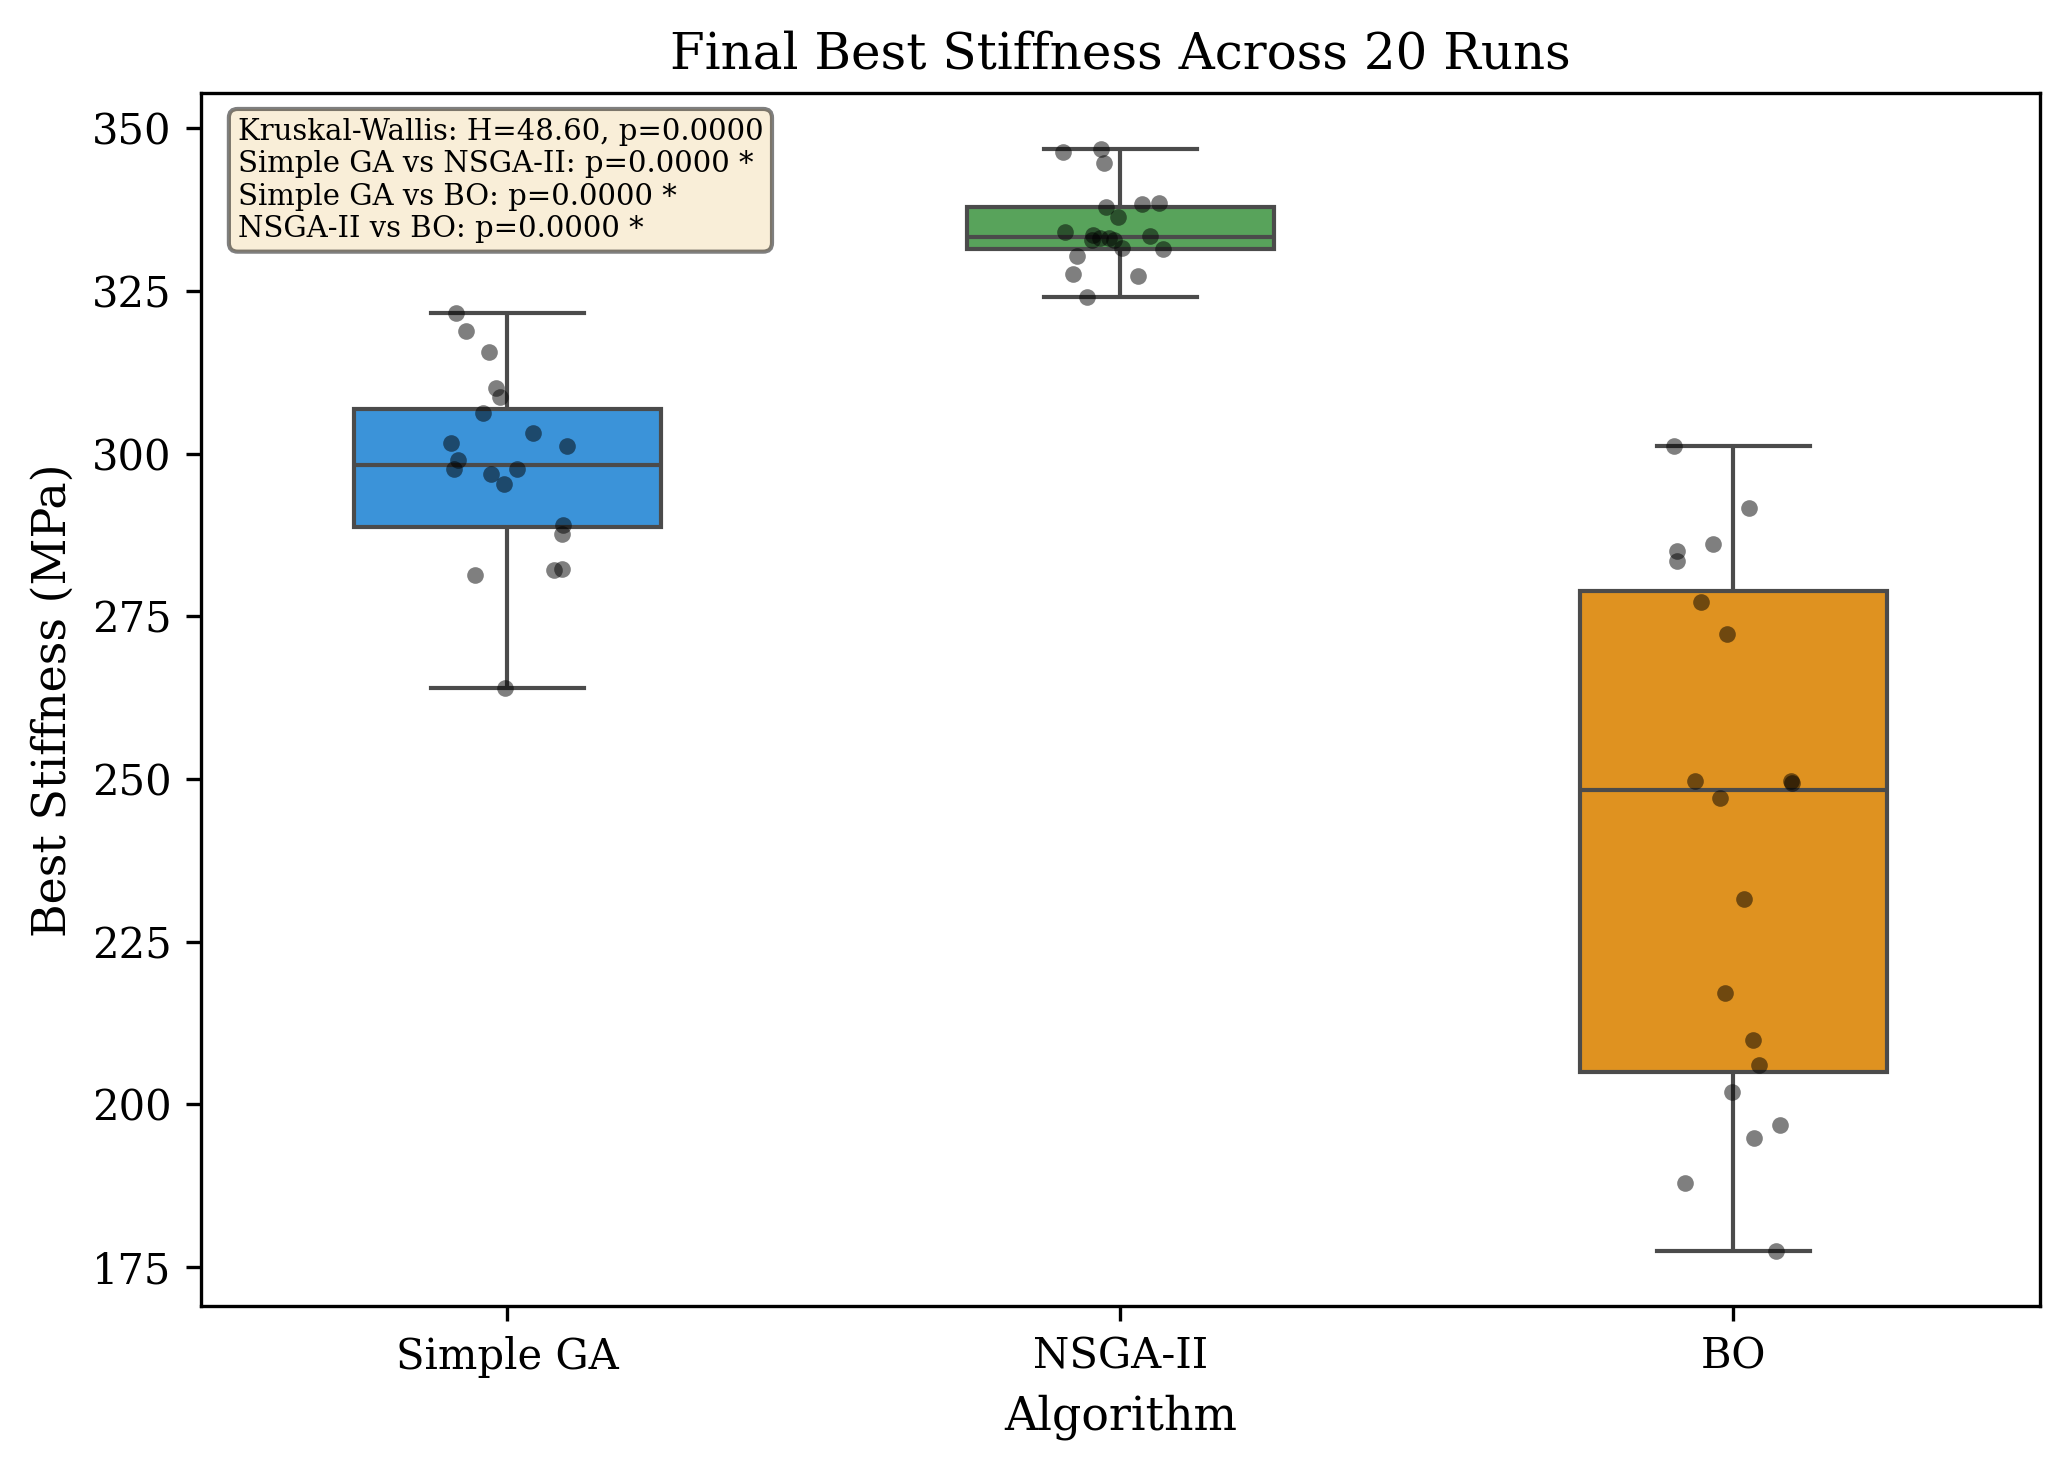
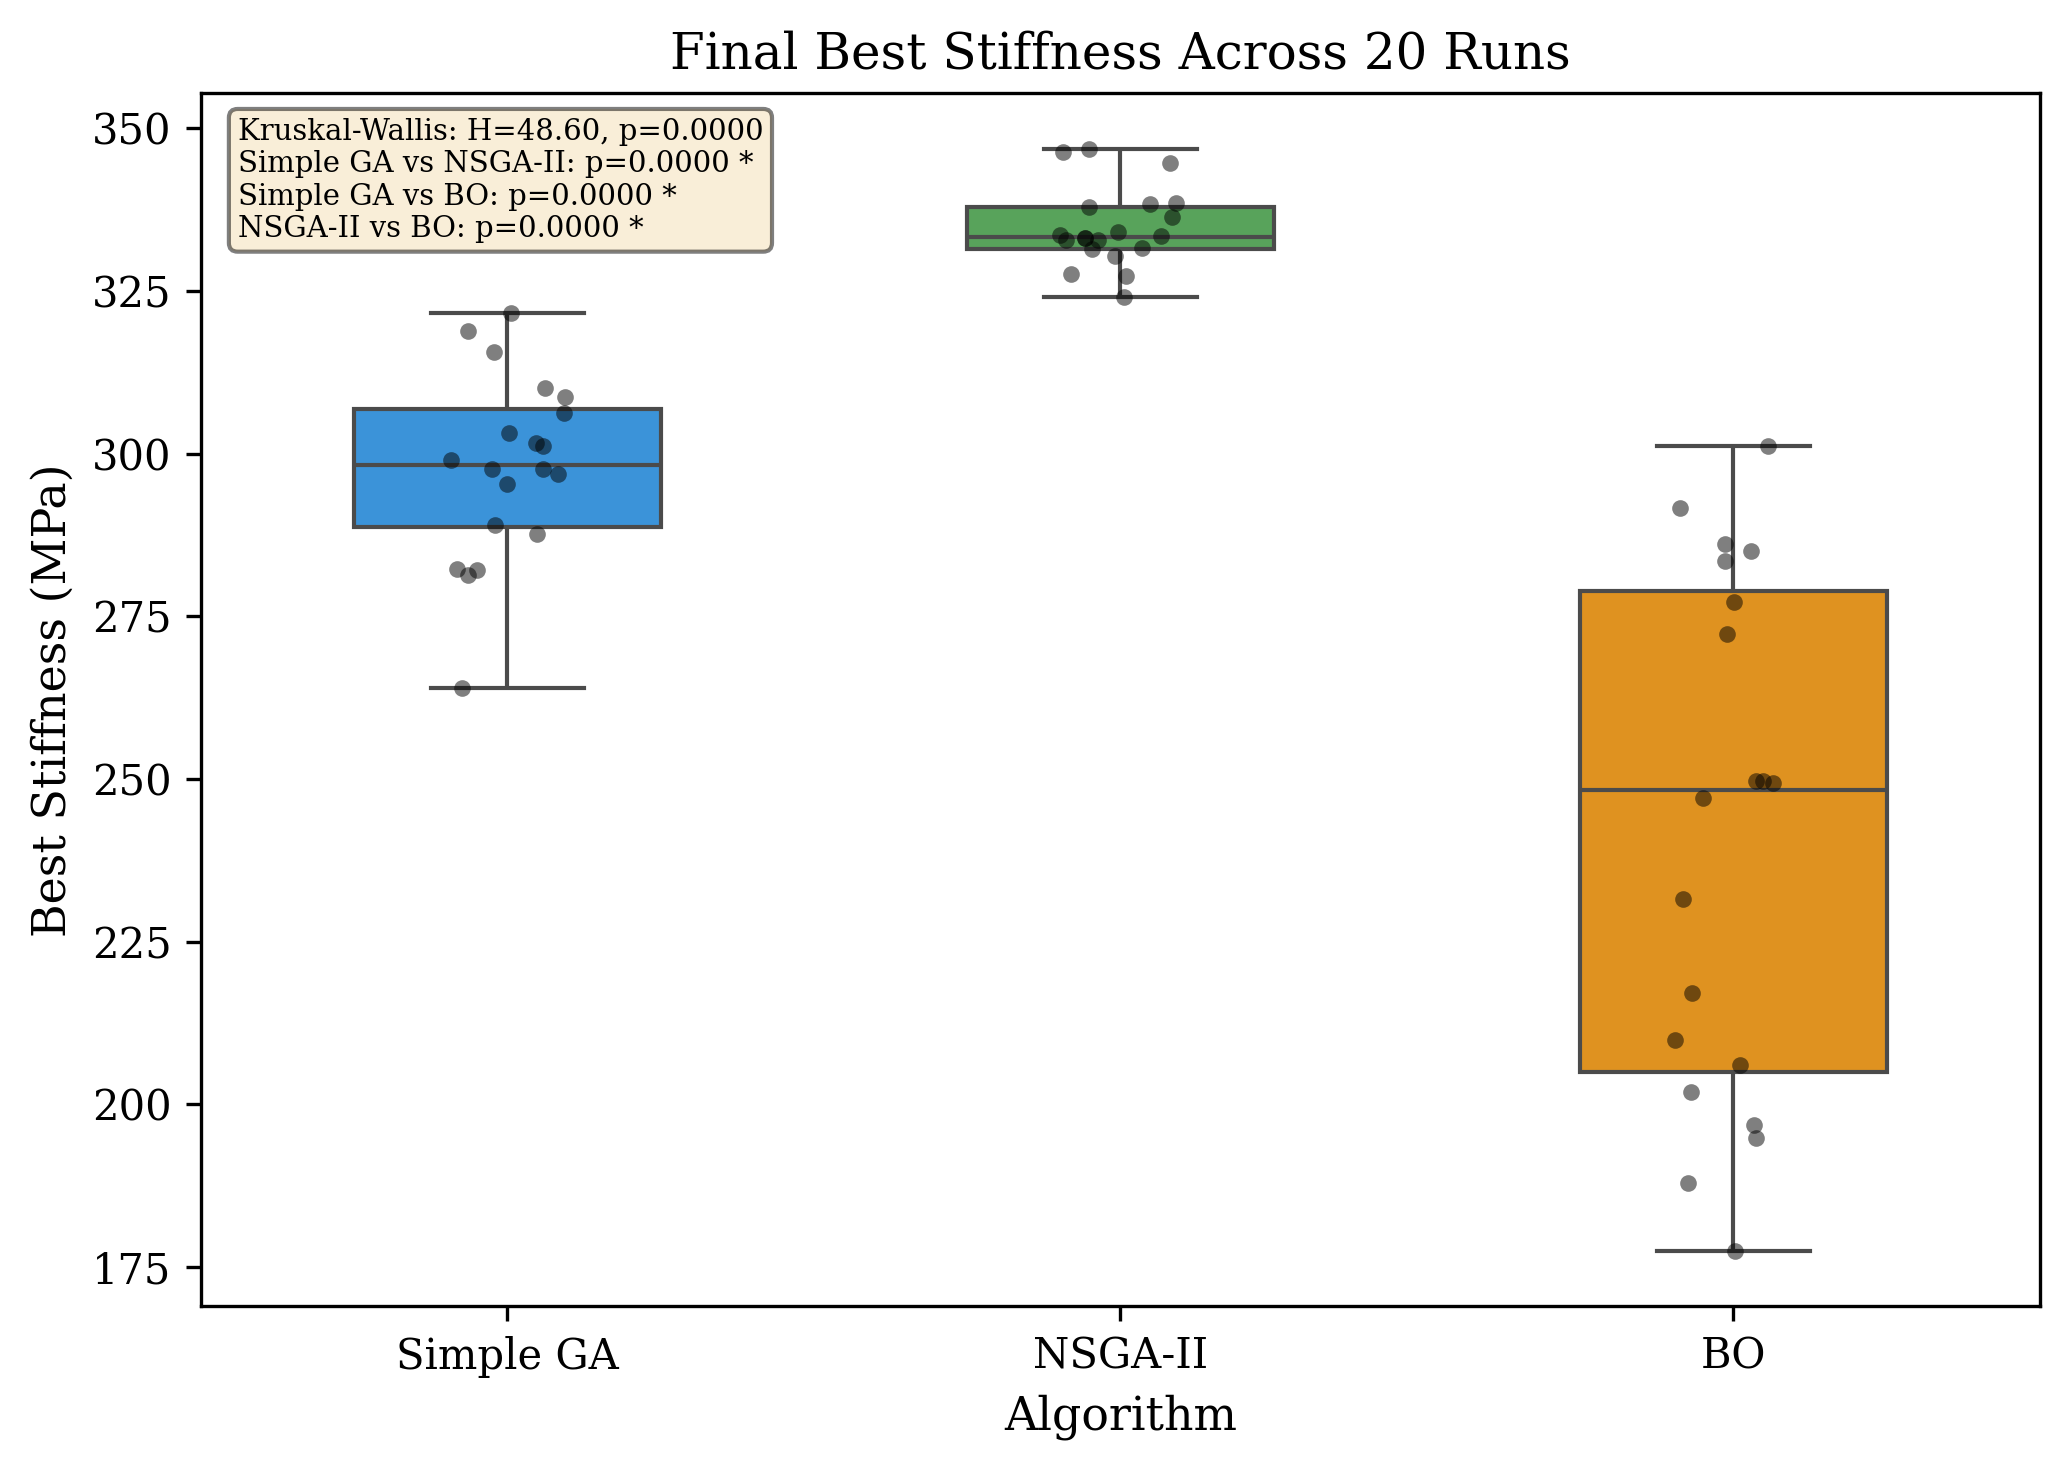
Full code with output

diff --git a/scaffold_benchmark/run_benchmark.py b/scaffold_benchmark/run_benchmark.py
@@ -165,16 +165,16 @@ def main():
     print("=" * 60)
 
     visualise.fig1_convergence_curves(ga_results, nsga2_results, bo_results, FIG_DIR)
-    print("  ✓ fig1_convergence_curves.png")
+    print("  [OK] fig1_convergence_curves.png")
 
     visualise.fig2_pareto_front_nsga2(nsga2_results, FIG_DIR)
-    print("  ✓ fig2_pareto_front_nsga2.png")
+    print("  [OK] fig2_pareto_front_nsga2.png")
 
     stat_info = visualise.fig3_boxplots_final_quality(ga_results, nsga2_results, bo_results, FIG_DIR)
-    print("  ✓ fig3_boxplots_final_quality.png")
+    print("  [OK] fig3_boxplots_final_quality.png")
 
     visualise.fig4_design_space_scatter(ga_results, nsga2_results, bo_results, FIG_DIR)
-    print("  ✓ fig4_design_space_scatter.png")
+    print("  [OK] fig4_design_space_scatter.png")
 
     # Build radar metrics (normalise 0-1)
     def _norm(vals):
@@ -211,11 +211,11 @@ def main():
         }
 
     visualise.fig5_radar_chart(radar_data, FIG_DIR)
-    print("  ✓ fig5_radar_chart.png")
+    print("  [OK] fig5_radar_chart.png")
 
-    # ──────────────────────────────────────────────────────────
+    # --------------------------------------------------------------
     # Step 6: Save data files
-    # ──────────────────────────────────────────────────────────
+    # --------------------------------------------------------------
     print("\n" + "=" * 60)
     print("Saving data files...")
     print("=" * 60)
@@ -247,7 +247,7 @@ def main():
 
     df = pd.DataFrame(rows)
     df.to_csv(DATA_DIR / 'results_summary.csv', index=False)
-    print("  ✓ results_summary.csv")
+    print("  [OK] results_summary.csv")
 
     # pareto_front_best_run.csv
     best_nsga_idx = 0
@@ -262,7 +262,7 @@ def main():
     pf_df['stiffness_MPa'] = -best_run['pareto_F'][:, 0]
     pf_df['porosity'] = -best_run['pareto_F'][:, 1]
     pf_df.to_csv(DATA_DIR / 'pareto_front_best_run.csv', index=False)
-    print("  ✓ pareto_front_best_run.csv")
+    print("  [OK] pareto_front_best_run.csv")
 
     # statistical_tests.txt
     from scipy import stats as sp_stats
@@ -289,18 +289,18 @@ def main():
 
     lines.append("")
     lines.append("GD/IGD Metrics (NSGA-II):")
-    lines.append(f"  GD:  {gd_igd['gd_mean']:.6f} ± {gd_igd['gd_std']:.6f}")
-    lines.append(f"  IGD: {gd_igd['igd_mean']:.6f} ± {gd_igd['igd_std']:.6f}")
+    lines.append(f"  GD:  {gd_igd['gd_mean']:.6f} +/- {gd_igd['gd_std']:.6f}")
+    lines.append(f"  IGD: {gd_igd['igd_mean']:.6f} +/- {gd_igd['igd_std']:.6f}")
     lines.append("")
-    lines.append(f"Pareto front size: {pf_size['mean']:.1f} ± {pf_size['std']:.1f}")
-    lines.append(f"Final HV (mean ± std): {hv_data['mean'][-1]:.4f} ± {hv_data['std'][-1]:.4f}")
+    lines.append(f"Pareto front size: {pf_size['mean']:.1f} +/- {pf_size['std']:.1f}")
+    lines.append(f"Final HV (mean +/- std): {hv_data['mean'][-1]:.4f} +/- {hv_data['std'][-1]:.4f}")
 
     (DATA_DIR / 'statistical_tests.txt').write_text('\n'.join(lines), encoding='utf-8')
-    print("  ✓ statistical_tests.txt")
+    print("  [OK] statistical_tests.txt")
 
-    # ──────────────────────────────────────────────────────────
+    # --------------------------------------------------------------
     # Step 7: Print summary table
-    # ──────────────────────────────────────────────────────────
+    # --------------------------------------------------------------
     def _mean_finite(lst):
         f = [v for v in lst if np.isfinite(v)]
         return f"{np.mean(f):.0f}" if f else "N/A"
@@ -309,14 +309,14 @@ def main():
     hv_final_std = hv_data['std'][-1] if len(hv_data['std']) > 0 else 0
 
     print("\n")
-    print("┌─────────────────────┬────────────┬────────────┬────────────┐")
-    print("│ Metric              │ Simple GA  │  NSGA-II   │    BO      │")
-    print("├─────────────────────┼────────────┼────────────┼────────────┤")
-    print(f"│ Best stiffness(MPa) │ {ga_stats['mean']:>6.1f}±{ga_stats['std']:<4.1f}│ {nsga_stats['mean']:>6.1f}±{nsga_stats['std']:<4.1f}│ {bo_stats['mean']:>6.1f}±{bo_stats['std']:<4.1f}│")
-    print(f"│ Evals to 90% target │ {_mean_finite(ga_evals_90):>10s} │ {_mean_finite(nsga_evals_90):>10s} │ {_mean_finite(bo_evals_90):>10s} │")
-    print(f"│ Feasibility rate    │ {ga_feas:>9.0f}% │ {nsga_feas:>9.0f}% │ {bo_feas:>9.0f}% │")
-    print(f"│ Final hypervolume   │    N/A     │{hv_final_mean:>6.3f}±{hv_final_std:<4.2f}│    N/A     │")
-    print("└─────────────────────┴────────────┴────────────┴────────────┘")
+    print("+---------------------+------------+------------+------------+")
+    print("| Metric              | Simple GA  |  NSGA-II   |    BO      |")
+    print("+---------------------+------------+------------+------------+")
+    print(f"| Best stiffness(MPa) | {ga_stats['mean']:>6.1f}+/-{ga_stats['std']:<3.1f}| {nsga_stats['mean']:>6.1f}+/-{nsga_stats['std']:<3.1f}| {bo_stats['mean']:>6.1f}+/-{bo_stats['std']:<3.1f}|")
+    print(f"| Evals to 90% target | {_mean_finite(ga_evals_90):>10s} | {_mean_finite(nsga_evals_90):>10s} | {_mean_finite(bo_evals_90):>10s} |")
+    print(f"| Feasibility rate    | {ga_feas:>9.0f}% | {nsga_feas:>9.0f}% | {bo_feas:>9.0f}% |")
+    print(f"| Final hypervolume   |    N/A     |{hv_final_mean:>6.3f}+/-{hv_final_std:<3.2f}|    N/A     |")
+    print("+---------------------+------------+------------+------------+")
     print(f"\nAll results saved to {RESULTS_DIR.resolve()}")
 
 